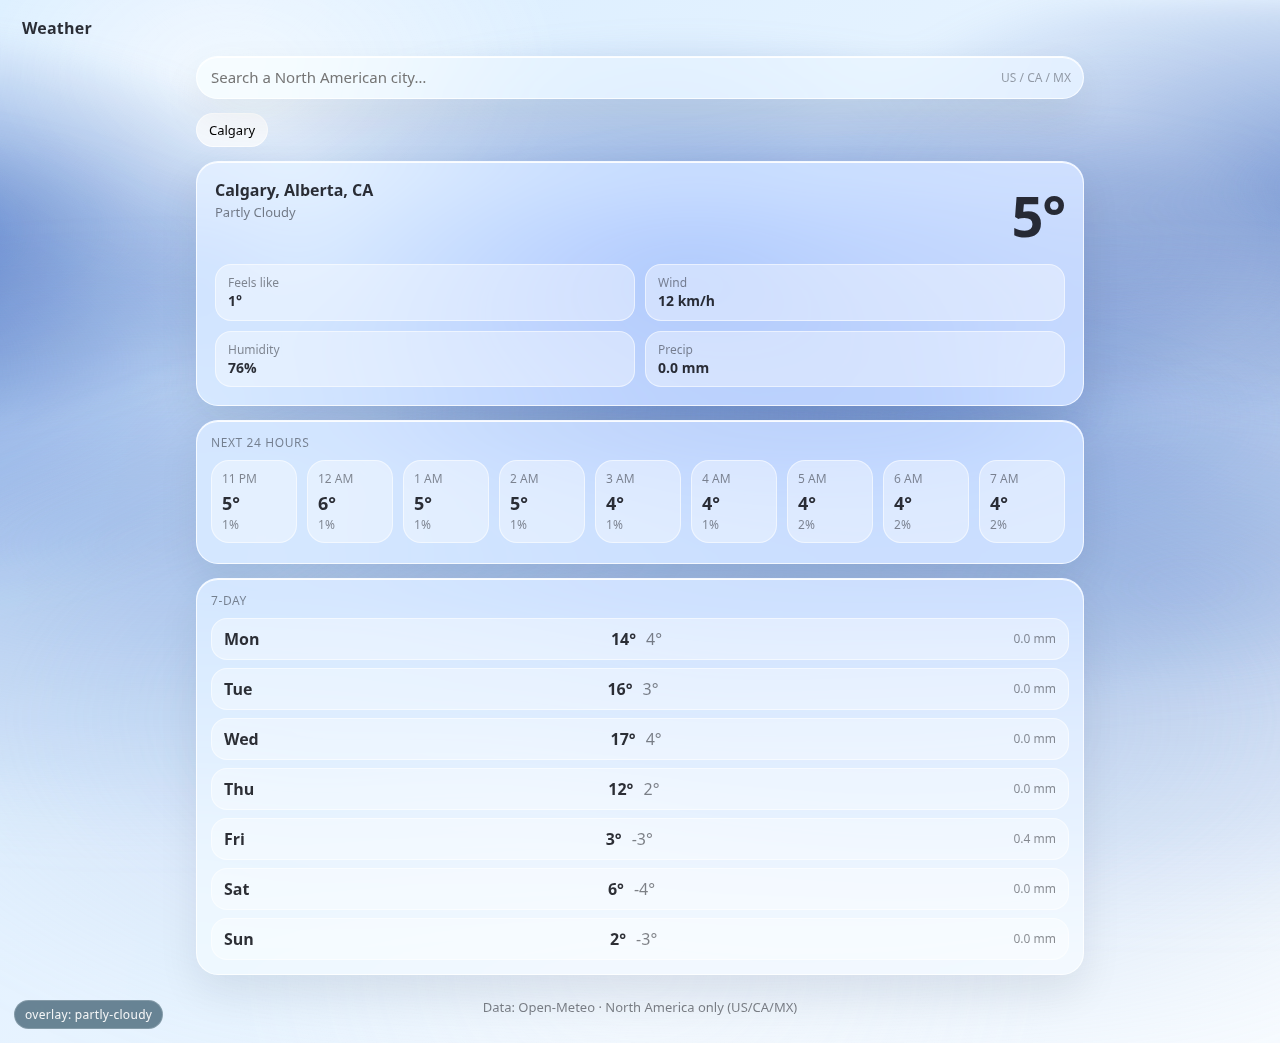
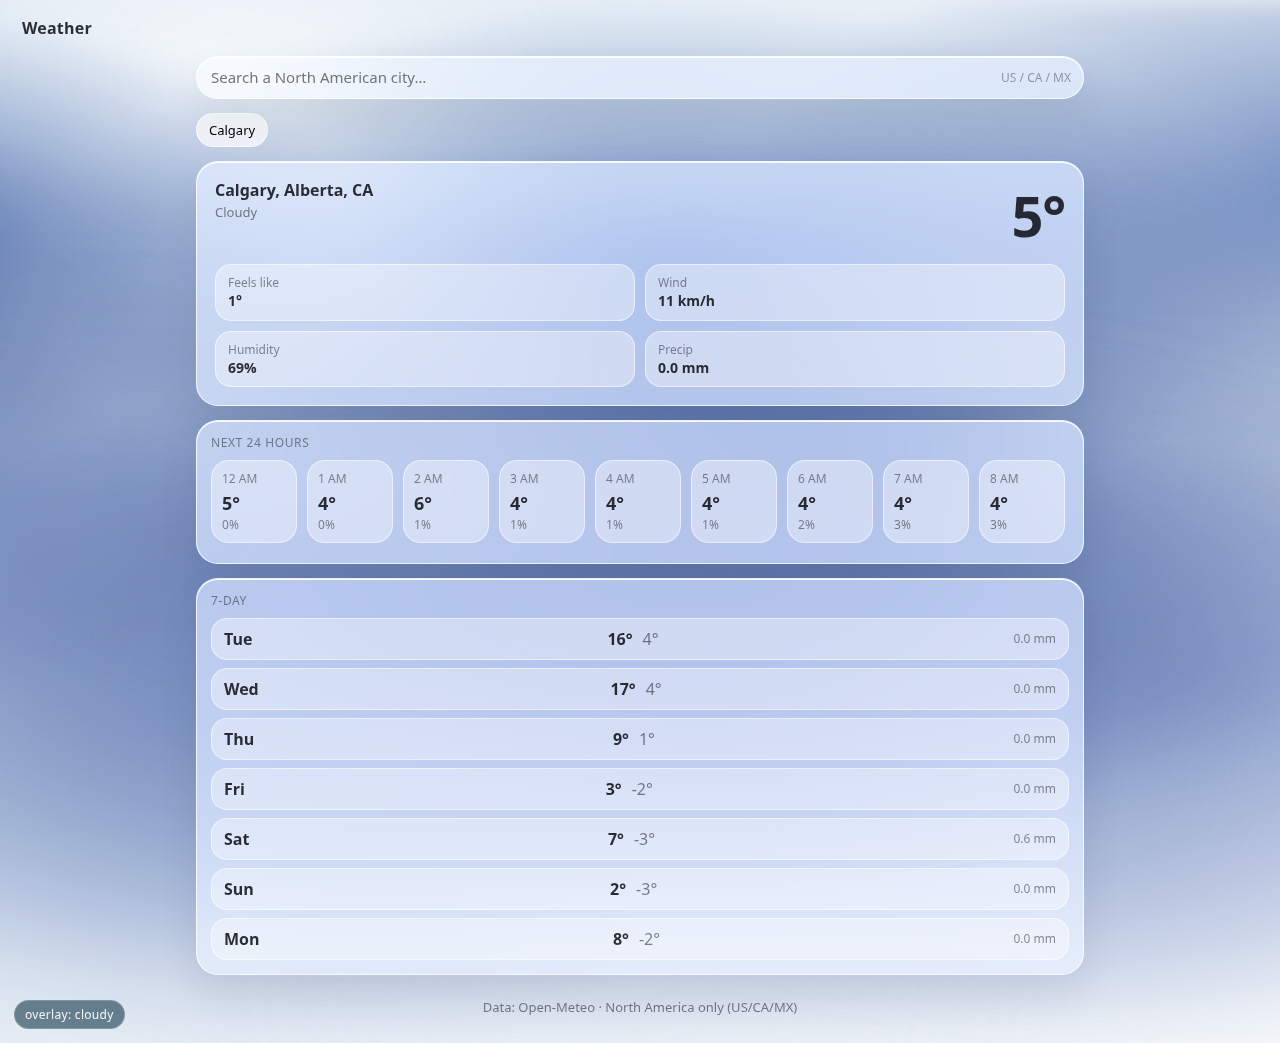
fix: restore cloudy visibility without seams

diff --git a/src/App.css b/src/App.css
@@ -116,32 +116,32 @@
 .app[data-condition='partly-cloudy'] .overlay.layer1 {
   opacity: 1;
   background:
-    radial-gradient(520px 230px at 18% 22%, rgba(95, 125, 180, 0.86), transparent 90%),
-    radial-gradient(620px 260px at 58% 26%, rgba(95, 125, 180, 0.80), transparent 92%),
-    radial-gradient(620px 260px at 92% 18%, rgba(95, 125, 180, 0.74), transparent 92%);
+    radial-gradient(520px 230px at 18% 22%, rgba(95, 125, 180, 0.92), rgba(95, 125, 180, 0) 100%),
+    radial-gradient(620px 260px at 58% 26%, rgba(95, 125, 180, 0.86), rgba(95, 125, 180, 0) 100%),
+    radial-gradient(620px 260px at 92% 18%, rgba(95, 125, 180, 0.80), rgba(95, 125, 180, 0) 100%);
   animation: cloudsSlow 20s linear infinite;
 }
 
 .app[data-condition='partly-cloudy'] .overlay.layer2 {
   opacity: 1;
   background:
-    radial-gradient(720px 280px at 10% 35%, rgba(125, 155, 205, 0.72), transparent 92%),
-    radial-gradient(820px 320px at 70% 40%, rgba(125, 155, 205, 0.62), transparent 93%);
+    radial-gradient(720px 280px at 10% 35%, rgba(125, 155, 205, 0.80), rgba(125, 155, 205, 0) 100%),
+    radial-gradient(820px 320px at 70% 40%, rgba(125, 155, 205, 0.70), rgba(125, 155, 205, 0) 100%);
   animation: cloudsFast 14s linear infinite reverse;
 }
 
 .app[data-condition='partly-cloudy'] .overlay.layer3 {
   opacity: 1;
   background:
-    radial-gradient(860px 320px at 30% 52%, rgba(150, 175, 215, 0.52), transparent 93%),
-    radial-gradient(900px 360px at 80% 56%, rgba(150, 175, 215, 0.46), transparent 94%);
+    radial-gradient(860px 320px at 30% 52%, rgba(150, 175, 215, 0.62), rgba(150, 175, 215, 0) 100%),
+    radial-gradient(900px 360px at 80% 56%, rgba(150, 175, 215, 0.56), rgba(150, 175, 215, 0) 100%);
   animation: cloudsMicro 28s linear infinite;
 }
 
 .app[data-condition='partly-cloudy'] .overlay.layer4 {
   opacity: 1;
   background:
-    radial-gradient(980px 420px at 50% 70%, rgba(170, 190, 220, 0.42), transparent 94%);
+    radial-gradient(980px 420px at 50% 70%, rgba(170, 190, 220, 0.52), rgba(170, 190, 220, 0) 100%);
   animation: cloudsDrift 34s linear infinite;
 }
 
@@ -153,41 +153,41 @@
 .app[data-condition='cloudy'] .overlay.layer1 {
   opacity: 1;
   background:
-    radial-gradient(560px 240px at 18% 22%, rgba(70, 100, 155, 0.65), transparent 92%),
-    radial-gradient(680px 290px at 58% 26%, rgba(70, 100, 155, 0.60), transparent 93%),
-    radial-gradient(680px 290px at 92% 18%, rgba(70, 100, 155, 0.56), transparent 93%);
+    radial-gradient(560px 240px at 18% 22%, rgba(70, 100, 155, 0.82), transparent 92%),
+    radial-gradient(680px 290px at 58% 26%, rgba(70, 100, 155, 0.78), transparent 93%),
+    radial-gradient(680px 290px at 92% 18%, rgba(70, 100, 155, 0.72), transparent 93%);
   animation: cloudsSlow 24s linear infinite;
 }
 
 .app[data-condition='cloudy'] .overlay.layer2 {
   opacity: 1;
   background:
-    radial-gradient(780px 320px at 12% 40%, rgba(95, 120, 170, 0.58), transparent 94%),
-    radial-gradient(860px 360px at 68% 45%, rgba(95, 120, 170, 0.54), transparent 94%);
+    radial-gradient(780px 320px at 12% 40%, rgba(95, 120, 170, 0.70), transparent 94%),
+    radial-gradient(860px 360px at 68% 45%, rgba(95, 120, 170, 0.66), transparent 94%);
   animation: cloudsFast 18s linear infinite reverse;
 }
 
 .app[data-condition='cloudy'] .overlay.layer3 {
   opacity: 1;
   background:
-    radial-gradient(900px 380px at 40% 60%, rgba(120, 140, 190, 0.48), transparent 95%),
-    radial-gradient(860px 360px at 80% 65%, rgba(120, 140, 190, 0.44), transparent 95%);
+    radial-gradient(900px 380px at 40% 60%, rgba(120, 140, 190, 0.60), transparent 95%),
+    radial-gradient(860px 360px at 80% 65%, rgba(120, 140, 190, 0.56), transparent 95%);
   animation: cloudsMicro 30s linear infinite;
 }
 
 .app[data-condition='cloudy'] .overlay.layer4 {
   opacity: 1;
   background:
-    radial-gradient(980px 420px at 50% 70%, rgba(150, 170, 205, 0.38), transparent 95%),
-    radial-gradient(940px 380px at 20% 62%, rgba(150, 170, 205, 0.34), transparent 95%);
+    radial-gradient(980px 420px at 50% 70%, rgba(150, 170, 205, 0.50), transparent 95%),
+    radial-gradient(940px 380px at 20% 62%, rgba(150, 170, 205, 0.46), transparent 95%);
   animation: cloudsDrift 36s linear infinite;
 }
 
 .app[data-condition='cloudy'] .overlay.layer5 {
   opacity: 1;
   background:
-    radial-gradient(1040px 460px at 60% 76%, rgba(170, 185, 215, 0.30), transparent 95%),
-    radial-gradient(980px 420px at 30% 74%, rgba(170, 185, 215, 0.28), transparent 95%);
+    radial-gradient(1040px 460px at 60% 76%, rgba(170, 185, 215, 0.42), transparent 95%),
+    radial-gradient(980px 420px at 30% 74%, rgba(170, 185, 215, 0.38), transparent 95%);
   animation: cloudsDrift 44s linear infinite reverse;
 }
 
@@ -314,6 +314,7 @@
 /* Search */
 .searchWrap {
   position: relative;
+  z-index: 6;
 }
 
 .search {
